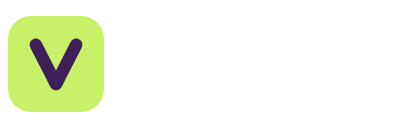
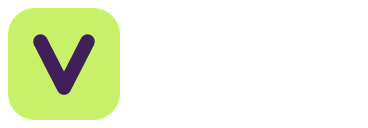
Ajusta a proporção da assinatura para o símbolo dominar e o tamanho dela nos e-mails

Changed region(s): [[0.0299, 0.0625, 0.3288, 0.9375], [0.0, 0.7188, 0.0299, 0.8125], [0.0, 0.1875, 0.0299, 0.2812]]

diff --git a/backend/src/Vitrio.Infrastructure/Email/Templates/layout.html b/backend/src/Vitrio.Infrastructure/Email/Templates/layout.html
@@ -36,7 +36,7 @@
         <table role="presentation" width="600" cellpadding="0" cellspacing="0" border="0" class="v-container" style="width:600px;max-width:600px;">
           <tr>
             <td class="v-hero v-pad" style="background:#3E1F57;border-radius:20px 20px 0 0;padding:24px 32px;">
-              <img src="cid:vitrio-wordmark" width="109" height="32" alt="Vitrio" style="display:block;width:109px;height:32px;">
+              <img src="cid:vitrio-wordmark" width="92" height="32" alt="Vitrio" style="display:block;width:92px;height:32px;">
             </td>
           </tr>
           <tr>

diff --git a/docs/design-system/emails/codigo-de-confirmacao.html b/docs/design-system/emails/codigo-de-confirmacao.html
@@ -35,7 +35,7 @@
         <table role="presentation" width="600" cellpadding="0" cellspacing="0" border="0" class="v-container" style="width:600px;max-width:600px;">
           <tr>
             <td class="v-hero v-pad" style="background:#3E1F57;border-radius:20px 20px 0 0;padding:24px 32px;">
-              <img src="cid:vitrio-wordmark" width="109" height="32" alt="Vitrio" style="display:block;width:109px;height:32px;">
+              <img src="cid:vitrio-wordmark" width="92" height="32" alt="Vitrio" style="display:block;width:92px;height:32px;">
             </td>
           </tr>
           <tr>

diff --git a/docs/design-system/emails.md b/docs/design-system/emails.md
@@ -75,7 +75,7 @@ Nada abaixo de 12 px. O código usa só dígitos e espaçamento entre letras, se
 
 ## Logo
 
-- Arquivo: [`assets/logos/vitrio-wordmark-on-dark@2x.png`](assets/logos/vitrio-wordmark-on-dark@2x.png) (436 × 128), exibido a 109 × 32 px sobre o cabeçalho `hero`. Gerado a partir do `vitrio-wordmark-on-dark.svg`, porque o Gmail não exibe SVG.
+- Arquivo: [`assets/logos/vitrio-wordmark-on-dark@2x.png`](assets/logos/vitrio-wordmark-on-dark@2x.png) (368 × 128), exibido a 92 × 32 px sobre o cabeçalho `hero`. Gerado a partir do `vitrio-wordmark-on-dark.svg`, porque o Gmail não exibe SVG.
 - Vai **embutido no e-mail** como anexo inline (`cid:vitrio-wordmark`), não por URL: aparece mesmo com imagens remotas bloqueadas e não avisa ninguém quando o e-mail é aberto.
 - `alt="Vitrio"`, sem link.
 
